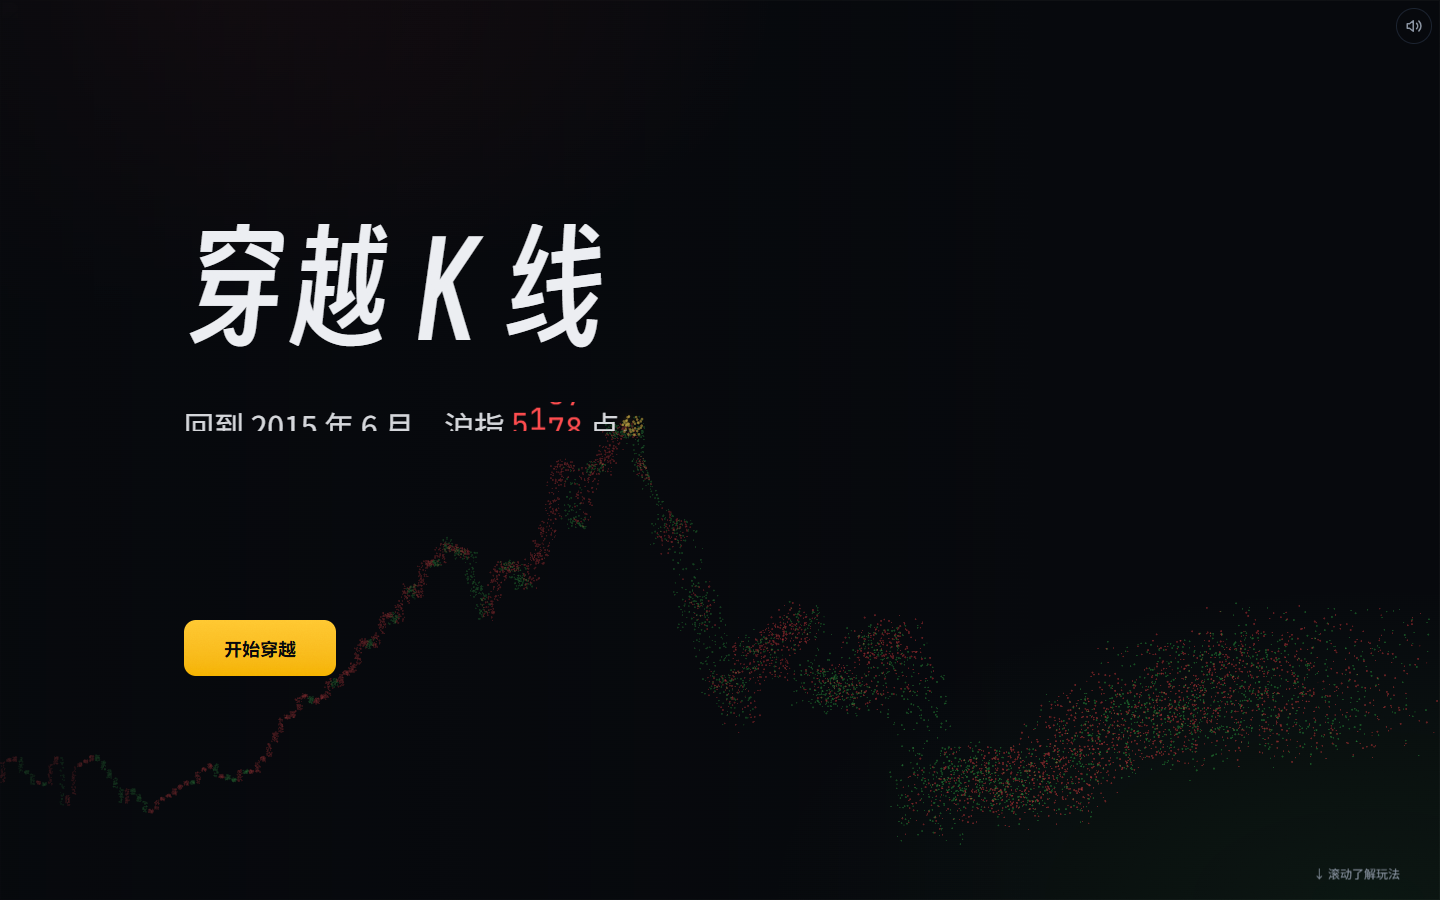
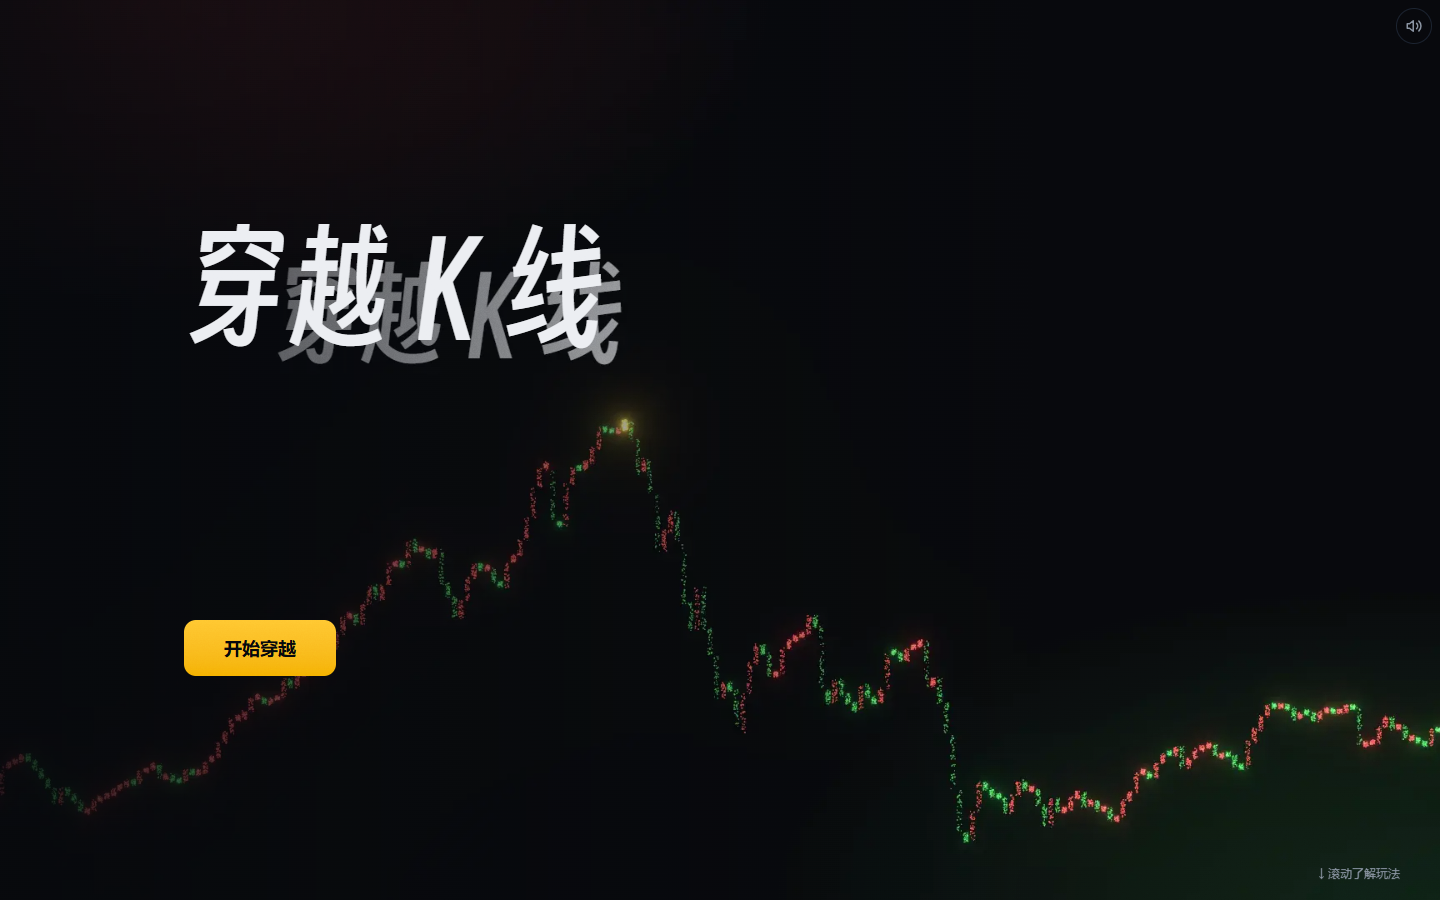
fix: Odometer 数字与静态字符同盒对齐；v3 截图

diff --git a/src/components/motion/Odometer.tsx b/src/components/motion/Odometer.tsx
@@ -61,7 +61,8 @@ export function Odometer({
     <span
       role="text"
       aria-label={target}
-      className={`inline-flex items-baseline leading-none ${className ?? ""}`}
+      className={`inline-flex items-center align-middle ${className ?? ""}`}
+      style={{ lineHeight: 1.15 }}
       data-odometer={target}
       data-testid={testId}
       data-value={target}
@@ -70,7 +71,7 @@ export function Odometer({
       {chars.map((c, i) => {
         if (!/\d/.test(c)) {
           return (
-            <span key={i} aria-hidden className="inline-block">
+            <span key={i} aria-hidden className="inline-flex items-center" style={{ height: "1.15em" }}>
               {c}
             </span>
           );
@@ -78,7 +79,7 @@ export function Odometer({
         const d = /\d/.test(cur[i]) ? Number(cur[i]) : 0;
         const fromRight = chars.length - 1 - i;
         return (
-          <span key={i} aria-hidden className="relative inline-block overflow-hidden" style={{ height: "1.15em", width: "0.6em", verticalAlign: "-0.3em" }}>
+          <span key={i} aria-hidden className="relative inline-block overflow-hidden" style={{ height: "1.15em", width: "0.6em" }}>
             <span
               className="absolute inset-x-0 top-0 flex flex-col"
               style={{
